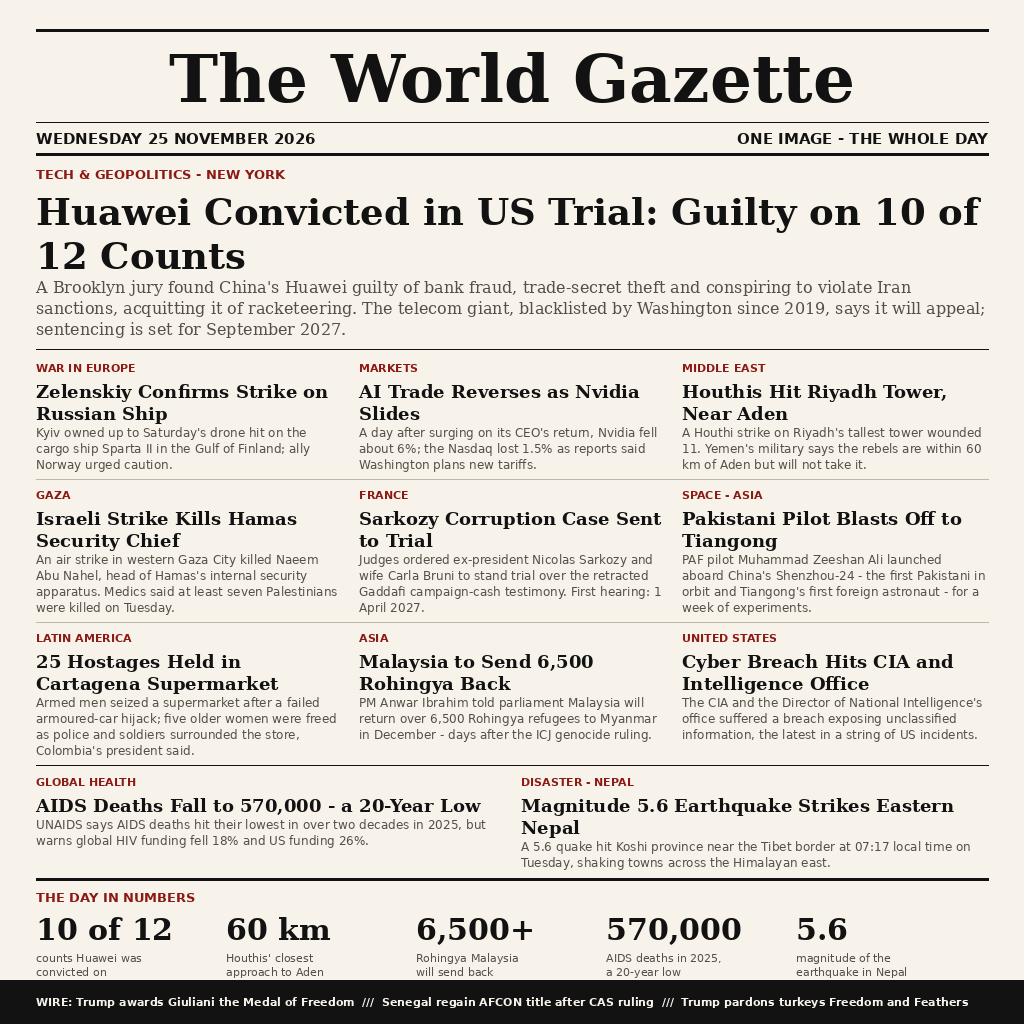
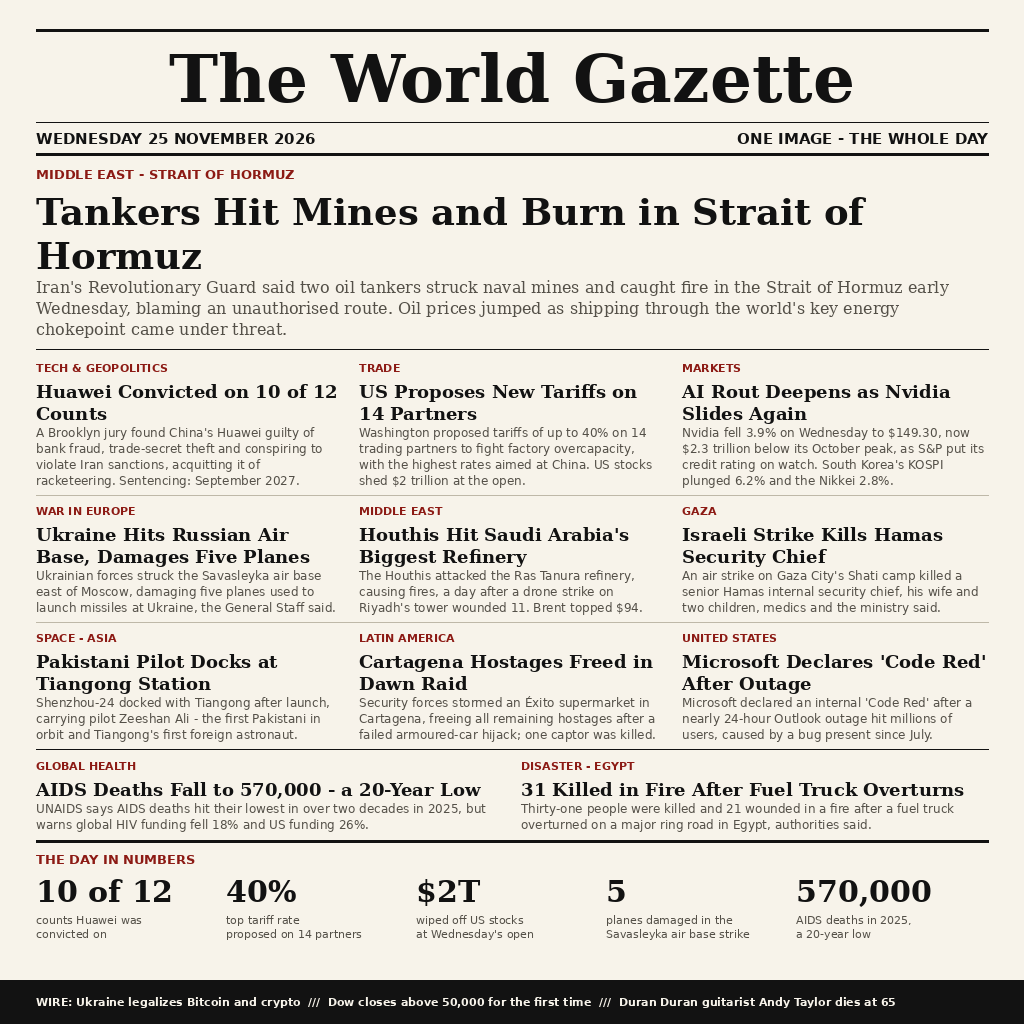
Refresh poster for 25 Nov: full-day news (Hormuz, tariffs, Ras Tanura)

Changed region(s): [[0.0312, 0.1562, 0.9688, 1.0]]

diff --git a/make_poster.py b/make_poster.py
@@ -1,10 +1,7 @@
 #!/usr/bin/env python3
 """Draw 'The World Gazette' front-page poster for Wednesday 25 November 2026.
 
-All stories were researched from live news sources on the day:
-Reuters world summary (via Devdiscourse), Daily Summary Of (24 Nov final
-edition), EventGraph daily brief, the 'What Happened in the World in the
-Last 24 Hours' roundup (Reuters/AP/Euronews wires), Arab News front page.
+All stories were researched from live news sources on the day: Reuters world summary (Devdiscourse), Just Security Early Edition 25 Nov, Reuters tariffs and markets coverage, the 'What Happened in the World in the Last 24 Hours' evening roundup.
 """
 from PIL import Image, ImageDraw, ImageFont
 
@@ -77,15 +74,15 @@ def main():
     lf = font(SANS_B, 13)
     hf_lead = font(SERIF_B, 37)
     sf_lead = font(SERIF, 16)
-    d.text((M, y), "TECH & GEOPOLITICS - NEW YORK", font=lf, fill=ACCENT)
+    d.text((M, y), "MIDDLE EAST - STRAIT OF HORMUZ", font=lf, fill=ACCENT)
     y += 24
-    for line in wrap(d, "Huawei Convicted in US Trial: Guilty on 10 of 12 Counts", hf_lead, CW):
+    for line in wrap(d, "Tankers Hit Mines and Burn in Strait of Hormuz", hf_lead, CW):
         d.text((M, y), line, font=hf_lead, fill=INK)
         y += 44
-    for line in wrap(d, "A Brooklyn jury found China's Huawei guilty of bank fraud, trade-secret theft and "
-                        "conspiring to violate Iran sanctions, acquitting it of racketeering. The telecom "
-                        "giant, blacklisted by Washington since 2019, says it will appeal; sentencing is set "
-                        "for September 2027.", sf_lead, CW):
+    for line in wrap(d, "Iran's Revolutionary Guard said two oil tankers struck naval mines and caught fire "
+                        "in the Strait of Hormuz early Wednesday, blaming an unauthorised route. Oil prices "
+                        "jumped as shipping through the world's key energy chokepoint came under threat.",
+                   sf_lead, CW):
         d.text((M, y), line, font=sf_lead, fill=GREY)
         y += 21
     y += 8
@@ -101,46 +98,49 @@ def main():
 
     rows = [
         [
-            ("WAR IN EUROPE",
-             "Zelenskiy Confirms Strike on Russian Ship",
-             "Kyiv owned up to Saturday's drone hit on the cargo ship Sparta II in the Gulf of "
-             "Finland; ally Norway urged caution."),
+            ("TECH & GEOPOLITICS",
+             "Huawei Convicted on 10 of 12 Counts",
+             "A Brooklyn jury found China's Huawei guilty of bank fraud, trade-secret theft and "
+             "conspiring to violate Iran sanctions, acquitting it of racketeering. Sentencing: "
+             "September 2027."),
+            ("TRADE",
+             "US Proposes New Tariffs on 14 Partners",
+             "Washington proposed tariffs of up to 40% on 14 trading partners to fight factory "
+             "overcapacity, with the highest rates aimed at China. US stocks shed $2 trillion at "
+             "the open."),
             ("MARKETS",
-             "AI Trade Reverses as Nvidia Slides",
-             "A day after surging on its CEO's return, Nvidia fell about 6%; the Nasdaq lost 1.5% "
-             "as reports said Washington plans new tariffs."),
-            ("MIDDLE EAST",
-             "Houthis Hit Riyadh Tower, Near Aden",
-             "A Houthi strike on Riyadh's tallest tower wounded 11. Yemen's military says the "
-             "rebels are within 60 km of Aden but will not take it."),
+             "AI Rout Deepens as Nvidia Slides Again",
+             "Nvidia fell 3.9% on Wednesday to $149.30, now $2.3 trillion below its October peak, "
+             "as S&P put its credit rating on watch. South Korea's KOSPI plunged 6.2% and the "
+             "Nikkei 2.8%."),
         ],
         [
+            ("WAR IN EUROPE",
+             "Ukraine Hits Russian Air Base, Damages Five Planes",
+             "Ukrainian forces struck the Savasleyka air base east of Moscow, damaging five "
+             "planes used to launch missiles at Ukraine, the General Staff said."),
+            ("MIDDLE EAST",
+             "Houthis Hit Saudi Arabia's Biggest Refinery",
+             "The Houthis attacked the Ras Tanura refinery, causing fires, a day after a drone "
+             "strike on Riyadh's tower wounded 11. Brent topped $94."),
             ("GAZA",
              "Israeli Strike Kills Hamas Security Chief",
-             "An air strike in western Gaza City killed Naeem Abu Nahel, head of Hamas's internal "
-             "security apparatus. Medics said at least seven Palestinians were killed on Tuesday."),
-            ("FRANCE",
-             "Sarkozy Corruption Case Sent to Trial",
-             "Judges ordered ex-president Nicolas Sarkozy and wife Carla Bruni to stand trial over "
-             "the retracted Gaddafi campaign-cash testimony. First hearing: 1 April 2027."),
-            ("SPACE - ASIA",
-             "Pakistani Pilot Blasts Off to Tiangong",
-             "PAF pilot Muhammad Zeeshan Ali launched aboard China's Shenzhou-24 - the first "
-             "Pakistani in orbit and Tiangong's first foreign astronaut - for a week of experiments."),
+             "An air strike on Gaza City's Shati camp killed a senior Hamas internal security "
+             "chief, his wife and two children, medics and the ministry said."),
         ],
         [
+            ("SPACE - ASIA",
+             "Pakistani Pilot Docks at Tiangong Station",
+             "Shenzhou-24 docked with Tiangong after launch, carrying pilot Zeeshan Ali - the "
+             "first Pakistani in orbit and Tiangong's first foreign astronaut."),
             ("LATIN AMERICA",
-             "25 Hostages Held in Cartagena Supermarket",
-             "Armed men seized a supermarket after a failed armoured-car hijack; five older women "
-             "were freed as police and soldiers surrounded the store, Colombia's president said."),
-            ("ASIA",
-             "Malaysia to Send 6,500 Rohingya Back",
-             "PM Anwar Ibrahim told parliament Malaysia will return over 6,500 Rohingya refugees to "
-             "Myanmar in December - days after the ICJ genocide ruling."),
+             "Cartagena Hostages Freed in Dawn Raid",
+             "Security forces stormed an Éxito supermarket in Cartagena, freeing all remaining "
+             "hostages after a failed armoured-car hijack; one captor was killed."),
             ("UNITED STATES",
-             "Cyber Breach Hits CIA and Intelligence Office",
-             "The CIA and the Director of National Intelligence's office suffered a breach exposing "
-             "unclassified information, the latest in a string of US incidents."),
+             "Microsoft Declares 'Code Red' After Outage",
+             "Microsoft declared an internal 'Code Red' after a nearly 24-hour Outlook outage "
+             "hit millions of users, caused by a bug present since July."),
         ],
     ]
     row_y = y
@@ -161,10 +161,10 @@ def main():
                     "AIDS Deaths Fall to 570,000 - a 20-Year Low",
                     "UNAIDS says AIDS deaths hit their lowest in over two decades in 2025, but warns "
                     "global HIV funding fell 18% and US funding 26%.", hf, sf, lab, lh=22, sh=16)
-    e2 = draw_story(d, M + half + 18, row_y, half, "DISASTER - NEPAL",
-                    "Magnitude 5.6 Earthquake Strikes Eastern Nepal",
-                    "A 5.6 quake hit Koshi province near the Tibet border at 07:17 local time on "
-                    "Tuesday, shaking towns across the Himalayan east.", hf, sf, lab, lh=22, sh=16)
+    e2 = draw_story(d, M + half + 18, row_y, half, "DISASTER - EGYPT",
+                    "31 Killed in Fire After Fuel Truck Overturns",
+                    "Thirty-one people were killed and 21 wounded in a fire after a fuel truck "
+                    "overturned on a major ring road in Egypt, authorities said.", hf, sf, lab, lh=22, sh=16)
     row_y = max(e1, e2) + 8
 
     # ---- The Day in Numbers ---------------------------------------------
@@ -176,10 +176,10 @@ def main():
     row_y += 22
     numbers = [
         ("10 of 12", "counts Huawei was\nconvicted on"),
-        ("60 km", "Houthis' closest\napproach to Aden"),
-        ("6,500+", "Rohingya Malaysia\nwill send back"),
+        ("40%", "top tariff rate\nproposed on 14 partners"),
+        ("$2T", "wiped off US stocks\nat Wednesday's open"),
+        ("5", "planes damaged in the\nSavasleyka air base strike"),
         ("570,000", "AIDS deaths in 2025,\na 20-year low"),
-        ("5.6", "magnitude of the\nearthquake in Nepal"),
     ]
     cell = CW // 5
     for i, (num, cap) in enumerate(numbers):
@@ -195,12 +195,13 @@ def main():
     tick_y = H - 44
     d.rectangle([(0, tick_y), (W, H)], fill=INK)
     tf = font(SANS_B, 11)
-    ticker = ("WIRE: Trump awards Giuliani the Medal of Freedom  ///  Senegal regain AFCON title after "
-              "CAS ruling  ///  Trump pardons turkeys Freedom and Feathers")
+    ticker = ("WIRE: Ukraine legalizes Bitcoin and crypto  ///  Dow closes above 50,000 for the first "
+              "time  ///  Duran Duran guitarist Andy Taylor dies at 65")
     d.text((M, tick_y + 15), ticker, font=tf, fill=PAPER)
 
     img.save("entry.png", optimize=True)
     print("saved entry.png")
+    print("final row_y (numbers end):", row_y, "| ticker starts at:", H - 44)
 
 
 if __name__ == "__main__":
